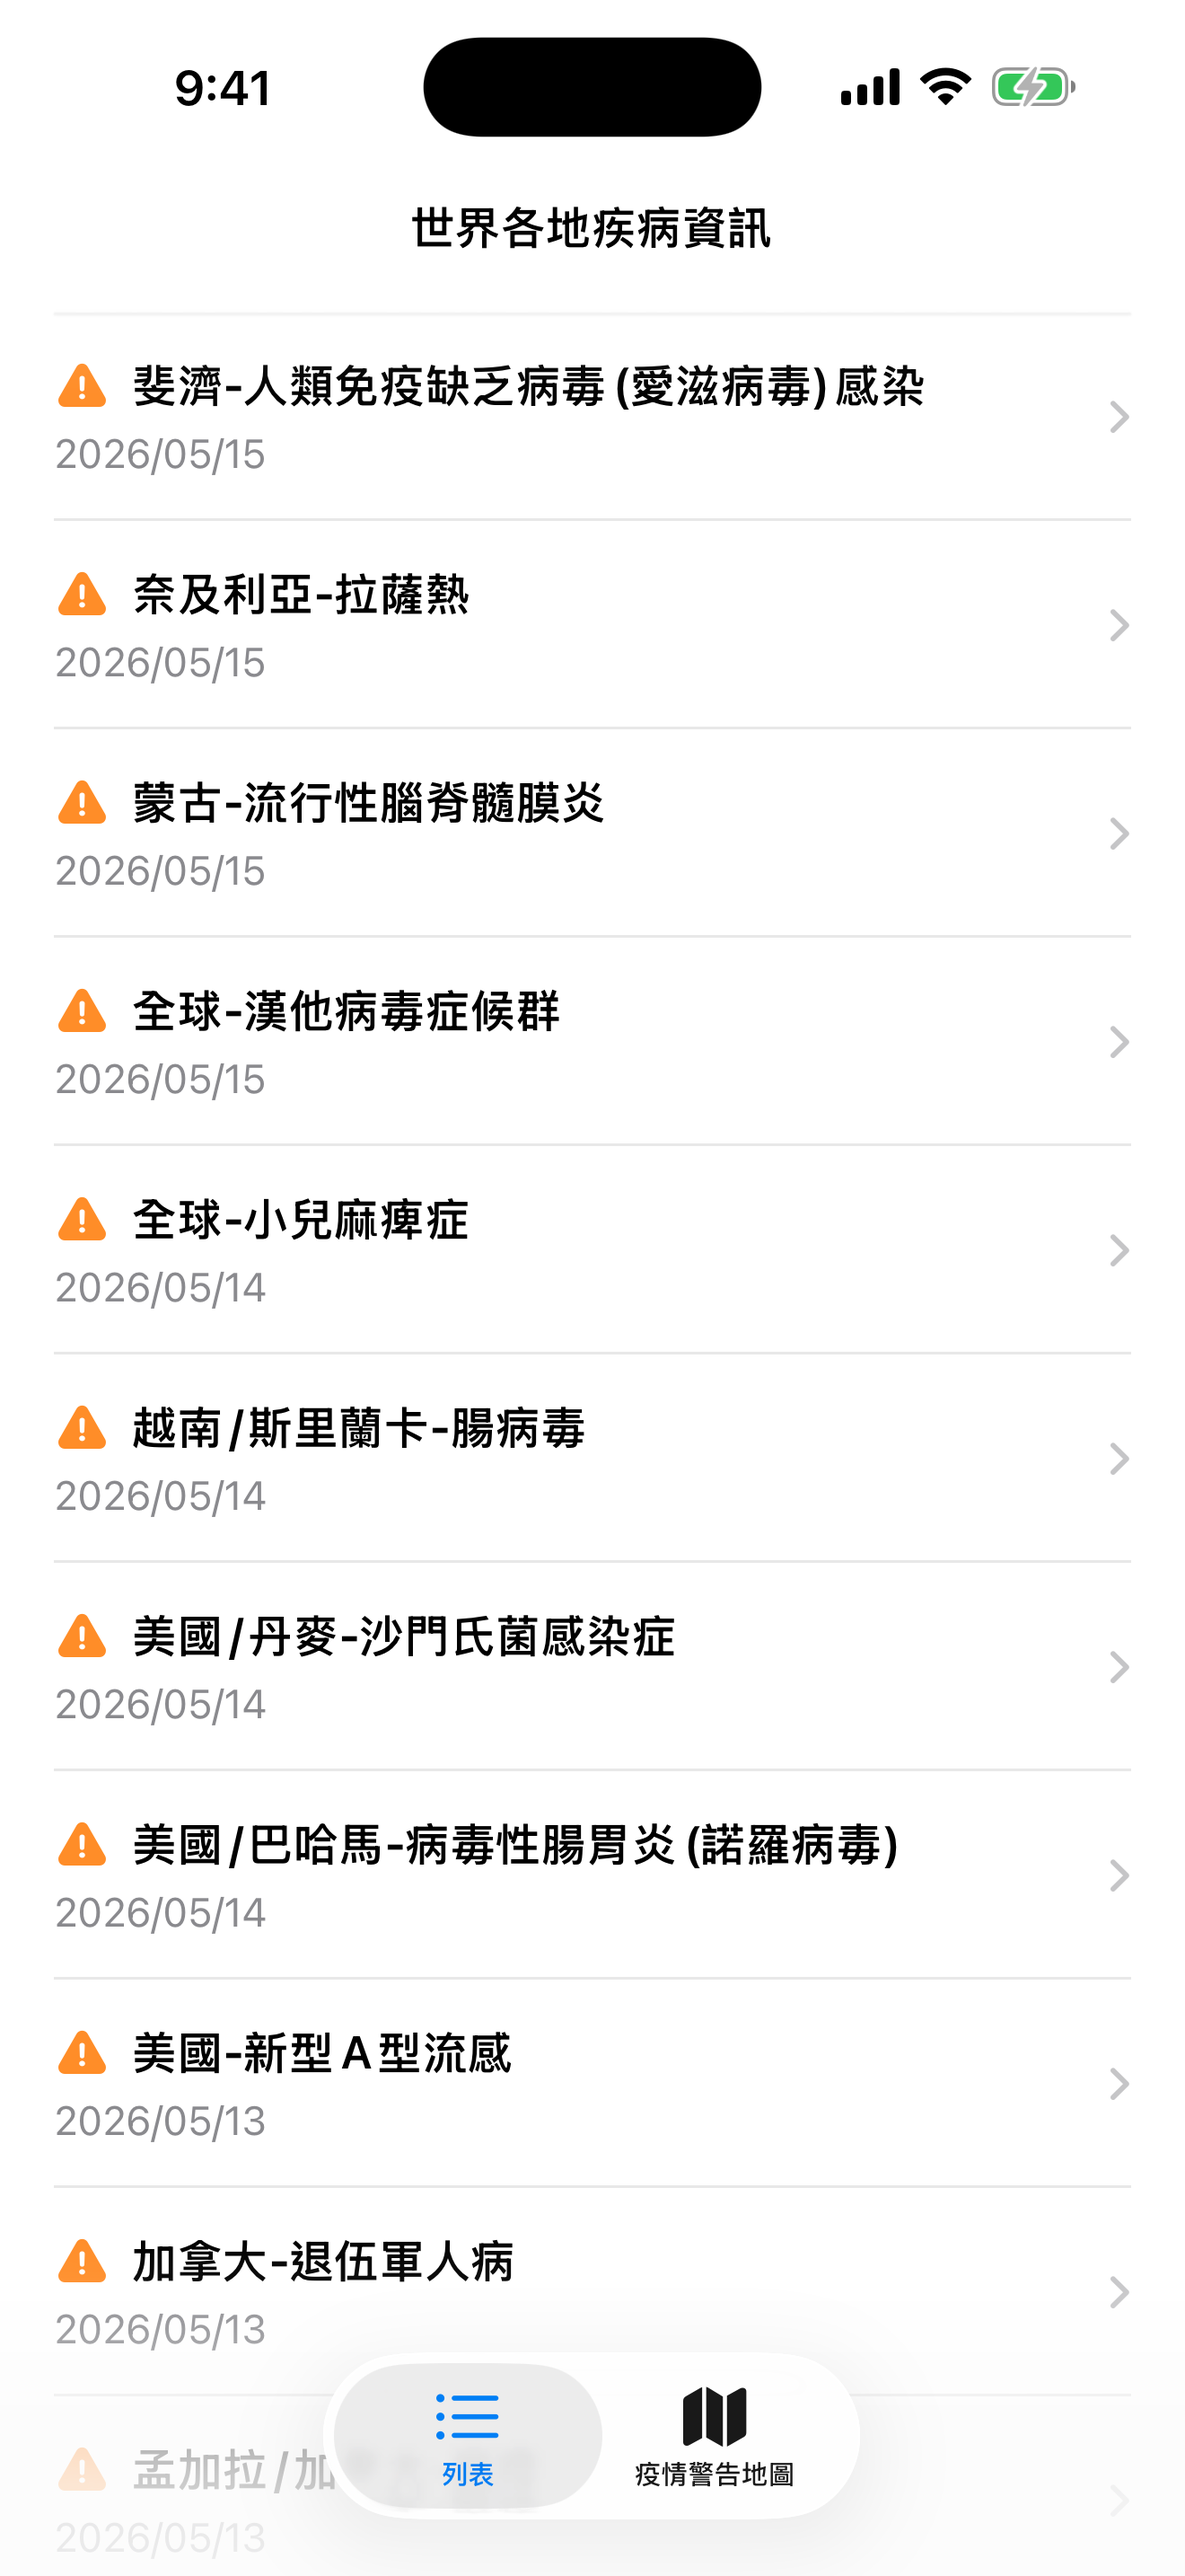
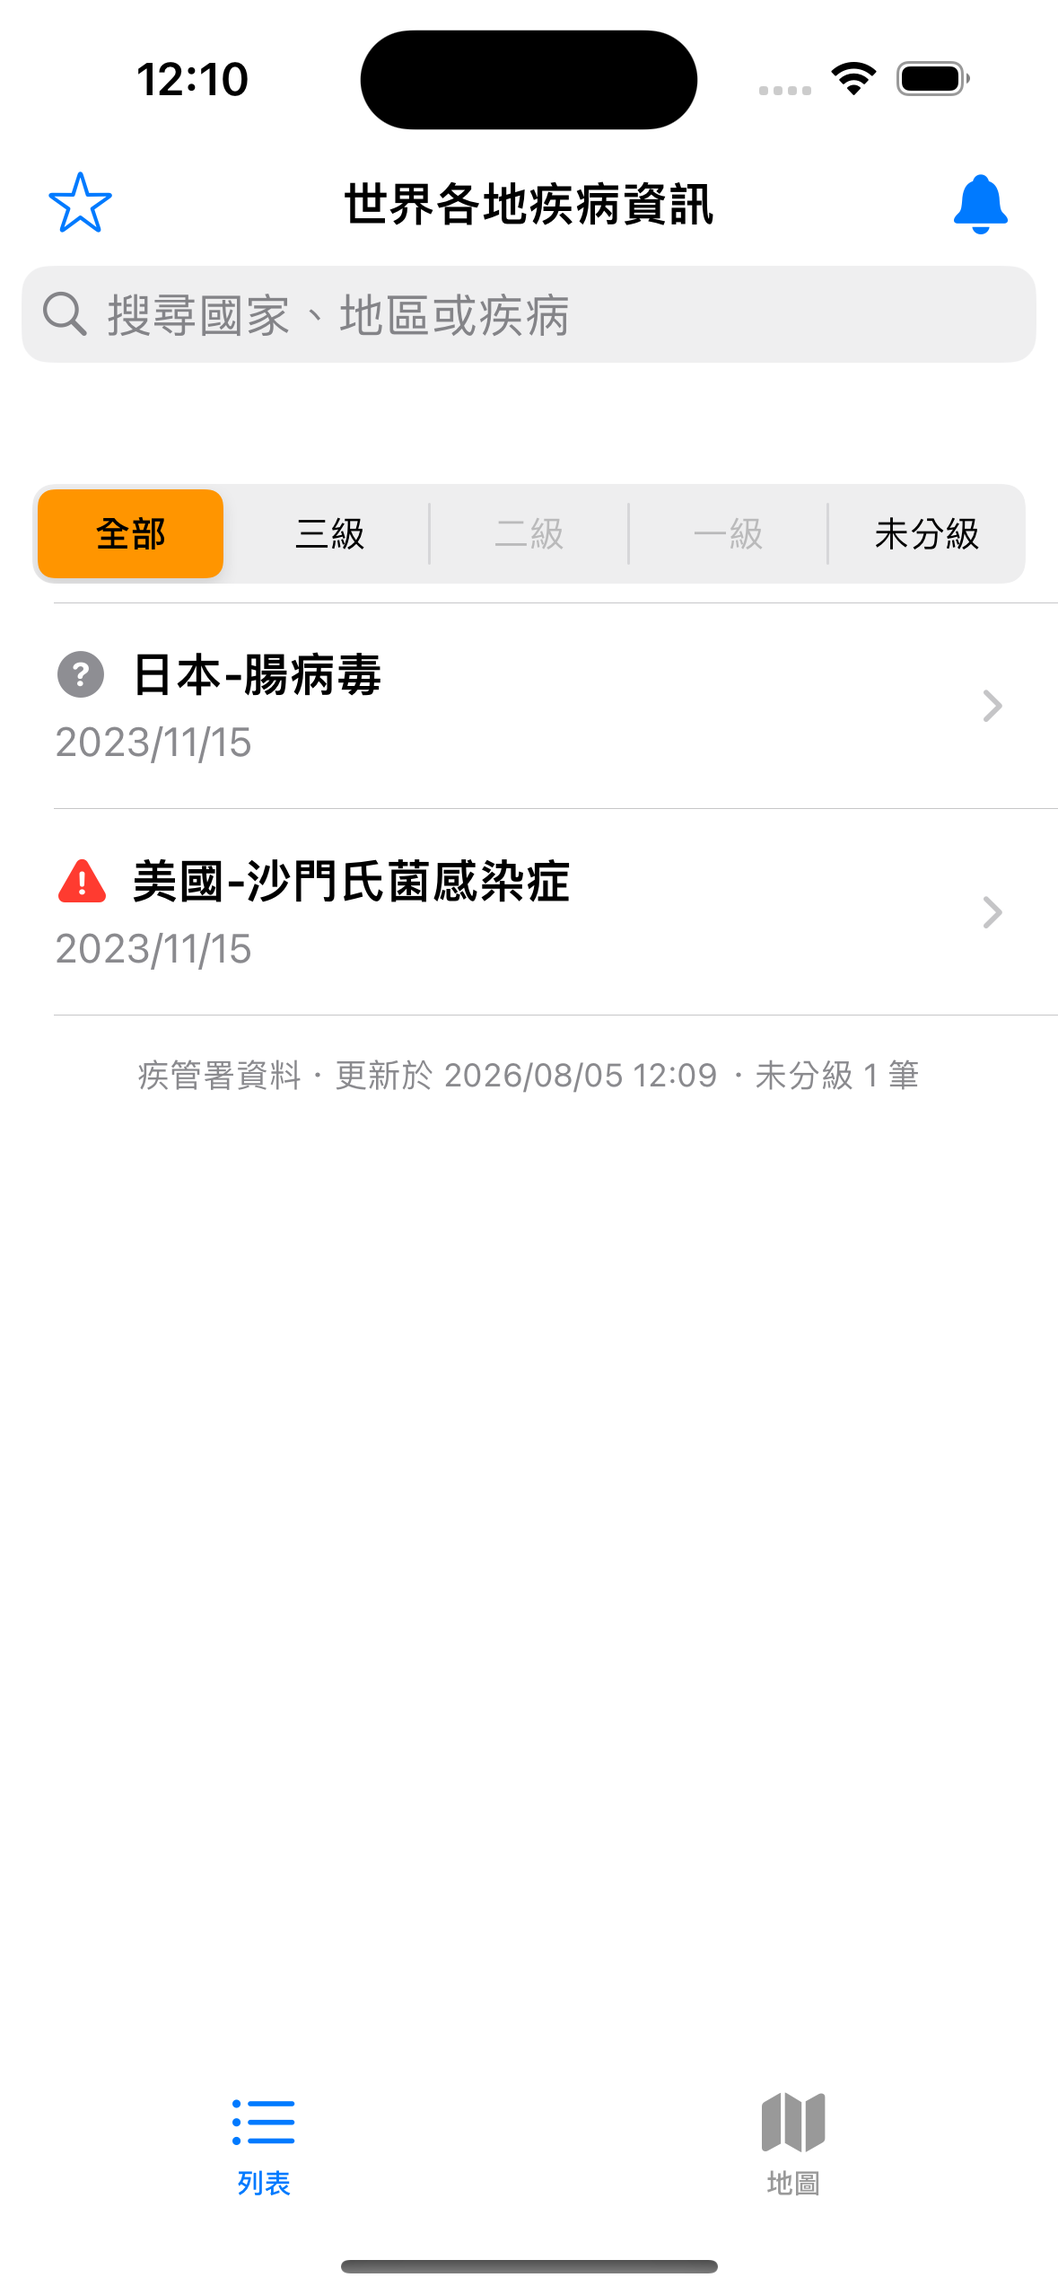
完善核心 UI 流程驗證

diff --git a/CovidAPI/CovidAPI/MapViewController.swift b/CovidAPI/CovidAPI/MapViewController.swift
@@ -129,6 +129,12 @@ class MapViewController: UIViewController {
         let epidemic = epidemics[index]
         let locationName = LocationNameNormalizer.normalize(epidemic.headline)
 
+        if let coordinate = uiTestingCoordinate(for: locationName) {
+            addAnnotation(for: epidemic, coordinate: coordinate)
+            geocodeNext(index: index + 1, generation: generation)
+            return
+        }
+
         if let coordinate = coordinateCache.coordinate(for: locationName) {
             addAnnotation(for: epidemic, coordinate: coordinate)
             geocodeNext(index: index + 1, generation: generation)
@@ -151,6 +157,15 @@ class MapViewController: UIViewController {
         mapView.addAnnotation(EpidemicAnnotation(epidemic: epidemic, coordinate: coordinate))
     }
 
+    private func uiTestingCoordinate(for locationName: String) -> CLLocationCoordinate2D? {
+        guard ProcessInfo.processInfo.arguments.contains("--ui-testing") else { return nil }
+        switch locationName {
+        case "日本": return CLLocationCoordinate2D(latitude: 35.6762, longitude: 139.6503)
+        case "美國": return CLLocationCoordinate2D(latitude: 37.0902, longitude: -95.7129)
+        default: return nil
+        }
+    }
+
     private func makeCalloutDetailView(for ann: EpidemicAnnotation) -> UIView {
         let stack = UIStackView()
         stack.axis = .vertical
@@ -159,6 +174,7 @@ class MapViewController: UIViewController {
         stack.translatesAutoresizingMaskIntoConstraints = false
 
         let levelLabel = UILabel()
+        levelLabel.accessibilityIdentifier = "epidemic.map.callout.level"
         levelLabel.text = ann.alertLevel.label
         levelLabel.font = .preferredFont(forTextStyle: .headline)
         levelLabel.textColor = ann.alertLevel.color
@@ -167,12 +183,14 @@ class MapViewController: UIViewController {
         let formatter = DateFormatter()
         formatter.dateFormat = "yyyy/MM/dd"
         let dateLabel = UILabel()
+        dateLabel.accessibilityIdentifier = "epidemic.map.callout.date"
         dateLabel.text = "發布日：\(formatter.string(from: ann.epidemic.effective))"
         dateLabel.font = .preferredFont(forTextStyle: .subheadline)
         dateLabel.textColor = .secondaryLabel
         dateLabel.adjustsFontForContentSizeCategory = true
 
         let descLabel = UILabel()
+        descLabel.accessibilityIdentifier = "epidemic.map.callout.description"
         descLabel.text = String(ann.epidemic.description.prefix(120))
         descLabel.font = .preferredFont(forTextStyle: .footnote)
         descLabel.textColor = .label
@@ -220,8 +238,11 @@ extension MapViewController: MKMapViewDelegate {
         view.detailCalloutAccessoryView = makeCalloutDetailView(for: epAnn)
         view.rightCalloutAccessoryView = UIButton(type: .detailDisclosure)
         view.accessibilityLabel = "\(epAnn.epidemic.headline)，\(epAnn.alertLevel.label)"
+        let locationName = LocationNameNormalizer.normalize(epAnn.epidemic.headline)
+        view.accessibilityIdentifier = "epidemic.map.marker.\(locationName)"
         view.accessibilityHint = "點兩下顯示摘要與詳細資訊按鈕"
         view.rightCalloutAccessoryView?.accessibilityLabel = "查看完整疫情資訊"
+        view.rightCalloutAccessoryView?.accessibilityIdentifier = "epidemic.map.callout.detail"
         return view
     }
 

diff --git a/CovidAPI/CovidAPIUITests/CovidAPIUITests.swift b/CovidAPI/CovidAPIUITests/CovidAPIUITests.swift
@@ -42,6 +42,32 @@ final class CovidAPIUITests: XCTestCase {
         XCTAssertTrue(map.waitForExistence(timeout: 5))
     }
 
+    func testOpensMapMarkerCalloutAndDetail() {
+        app.tabBars.buttons["地圖"].tap()
+
+        let marker = app.descendants(matching: .any)["epidemic.map.marker.日本"]
+        XCTAssertTrue(marker.waitForExistence(timeout: 5))
+        marker.tap()
+
+        XCTAssertTrue(app.staticTexts["epidemic.map.callout.level"].waitForExistence(timeout: 2))
+        XCTAssertTrue(app.staticTexts["epidemic.map.callout.date"].exists)
+        XCTAssertTrue(app.staticTexts["epidemic.map.callout.description"].exists)
+
+        app.buttons["epidemic.map.callout.detail"].tap()
+        XCTAssertTrue(app.tables["epidemic.detail"].waitForExistence(timeout: 2))
+    }
+
+    func testShowsCachedDataWhenOffline() {
+        app.terminate()
+        app.launchArguments = ["--ui-testing", "--ui-testing-offline"]
+        app.launch()
+
+        XCTAssertTrue(app.cells["epidemic.cell.0"].waitForExistence(timeout: 5))
+        let footer = app.staticTexts["epidemic.updatedAt"]
+        XCTAssertTrue(footer.waitForExistence(timeout: 2))
+        XCTAssertTrue(footer.label.contains("離線資料"))
+    }
+
     func testFavoritesLocationFromDetail() {
         let firstCell = app.cells["epidemic.cell.0"]
         XCTAssertTrue(firstCell.waitForExistence(timeout: 5))
@@ -59,5 +85,34 @@ final class CovidAPIUITests: XCTestCase {
         XCTAssertTrue(
             app.buttons["epidemic.notifications.toggle"].waitForExistence(timeout: 5)
         )
+    }
+
+    func testEnablesNotificationsAfterSystemPermissionIsGranted() {
+        addUIInterruptionMonitor(withDescription: "通知權限") { alert in
+            let allowButton = alert.buttons["Allow"]
+            if allowButton.exists {
+                allowButton.tap()
+            } else if alert.buttons["允許"].exists {
+                alert.buttons["允許"].tap()
+            } else if alert.buttons.count > 0 {
+                alert.buttons.element(boundBy: alert.buttons.count - 1).tap()
+            } else {
+                return false
+            }
+            return true
+        }
+
+        let toggle = app.buttons["epidemic.notifications.toggle"]
+        XCTAssertTrue(toggle.waitForExistence(timeout: 5))
+        if toggle.label == "關閉收藏地區新疫情通知" {
+            toggle.tap()
+        }
+        toggle.tap()
+        app.tap()
+
+        let enabledToggle = app.buttons.matching(
+            NSPredicate(format: "identifier == %@ AND label == %@", "epidemic.notifications.toggle", "關閉收藏地區新疫情通知")
+        ).firstMatch
+        XCTAssertTrue(enabledToggle.waitForExistence(timeout: 5))
     }
 }

diff --git a/CovidAPI/CovidAPI/EpidemicRepository.swift b/CovidAPI/CovidAPI/EpidemicRepository.swift
@@ -118,6 +118,12 @@ final class EpidemicRepository {
         guard ProcessInfo.processInfo.arguments.contains("--ui-testing") else {
             return EpidemicRepository()
         }
+        if ProcessInfo.processInfo.arguments.contains("--ui-testing-offline") {
+            return EpidemicRepository(
+                apiClient: UITestingOfflineAPIClient(),
+                cache: UITestingCache(epidemics: UITestingFixture.epidemics)
+            )
+        }
         return EpidemicRepository(apiClient: UITestingAPIClient(), cache: UITestingCache())
     }()
 
@@ -196,16 +202,34 @@ final class EpidemicRepository {
 
 private final class UITestingAPIClient: EpidemicAPIClientProtocol {
     func fetch(completion: @escaping (Result<[Epidemic], Error>) -> Void) {
-        let date = Date(timeIntervalSince1970: 1_700_000_000)
-        completion(.success([
-            Epidemic(headline: "日本-腸病毒", effective: date, description: "日本疫情測試資料", areaDescription: "日本"),
-            Epidemic(headline: "美國-沙門氏菌感染症", effective: date, description: "美國疫情測試資料", severityLevel: 3, areaDescription: "美國")
-        ]))
+        completion(.success(UITestingFixture.epidemics))
     }
 }
 
 private final class UITestingCache: EpidemicCacheProtocol {
-    var modifiedAt: Date? { nil }
-    func load() -> [Epidemic]? { nil }
+    private let epidemics: [Epidemic]?
+
+    init(epidemics: [Epidemic]? = nil) {
+        self.epidemics = epidemics
+    }
+
+    var modifiedAt: Date? { Date(timeIntervalSince1970: 1_700_000_000) }
+    func load() -> [Epidemic]? { epidemics }
     func save(_ epidemics: [Epidemic]) {}
+}
+
+private final class UITestingOfflineAPIClient: EpidemicAPIClientProtocol {
+    func fetch(completion: @escaping (Result<[Epidemic], Error>) -> Void) {
+        completion(.failure(EpidemicRepositoryError.network(URLError(.notConnectedToInternet))))
+    }
+}
+
+private enum UITestingFixture {
+    static let epidemics: [Epidemic] = {
+        let date = Date(timeIntervalSince1970: 1_700_000_000)
+        return [
+            Epidemic(headline: "日本-腸病毒", effective: date, description: "日本疫情測試資料", areaDescription: "日本"),
+            Epidemic(headline: "美國-沙門氏菌感染症", effective: date, description: "美國疫情測試資料", severityLevel: 3, areaDescription: "美國")
+        ]
+    }()
 }

diff --git a/CovidAPI/CovidAPI/EpidemicTableViewController.swift b/CovidAPI/CovidAPI/EpidemicTableViewController.swift
@@ -55,7 +55,6 @@ class EpidemicTableViewController: UITableViewController {
         filterControl.addTarget(self, action: #selector(filterChanged), for: .valueChanged)
         filterControl.selectedSegmentTintColor = .systemOrange
         filterControl.accessibilityIdentifier = "epidemic.filter"
-        navigationItem.titleView = filterControl
         navigationItem.leftBarButtonItem = UIBarButtonItem(
             image: UIImage(systemName: "star"),
             style: .plain,
@@ -85,11 +84,29 @@ class EpidemicTableViewController: UITableViewController {
         }
         viewModel.load()
     }
-    
+
     
     override func numberOfSections(in tableView: UITableView) -> Int {
         // #warning Incomplete implementation, return the number of sections
         return 1
+    }
+
+    override func tableView(_ tableView: UITableView, heightForHeaderInSection section: Int) -> CGFloat {
+        52
+    }
+
+    override func tableView(_ tableView: UITableView, viewForHeaderInSection section: Int) -> UIView? {
+        let header = UIView()
+        header.backgroundColor = .systemBackground
+        filterControl.translatesAutoresizingMaskIntoConstraints = false
+        header.addSubview(filterControl)
+        NSLayoutConstraint.activate([
+            filterControl.leadingAnchor.constraint(equalTo: header.leadingAnchor, constant: 12),
+            filterControl.trailingAnchor.constraint(equalTo: header.trailingAnchor, constant: -12),
+            filterControl.topAnchor.constraint(equalTo: header.topAnchor, constant: 8),
+            filterControl.bottomAnchor.constraint(equalTo: header.bottomAnchor, constant: -8)
+        ])
+        return header
     }
 
     override func tableView(_ tableView: UITableView, numberOfRowsInSection section: Int) -> Int {

diff --git a/roadmap.md b/roadmap.md
@@ -2,9 +2,9 @@
 
 ## 目前狀態
 
-更新日期：2026-08-04
+更新日期：2026-08-05
 
-資料層重構、離線支援、地圖效能、UI tests、無障礙、未分級說明、地區收藏與 app 內新疫情通知均已完成。目前本機 `main` 比 `origin/main` 領先兩個 commits，尚未推送。
+資料層重構、離線支援、地圖效能、UI tests、無障礙、未分級說明、地區收藏與 app 內新疫情通知均已完成。CI Simulator 建立流程也已修正；本機 `main` 與 `origin/main` 同步。
 
 ## 本次完成
 
@@ -24,6 +24,10 @@
 - 解析疾管署 `severity_level`，新增「未分級」篩選並停用沒有資料的等級，避免將空白誤解為疫情不嚴重。
 - 加入地區收藏：詳細頁可切換收藏，列表可只顯示收藏地區，並以 UserDefaults 持久化。
 - 加入通知 opt-in；app 更新資料時比對已看過項目，僅通知收藏地區的新疫情，首次啟用只建立基準。
+- 修正 GitHub Actions 在 runner 沒有預建 Simulator 時找不到 `iPhone 16` 的問題：workflow 會選擇最新可用的 iOS runtime、建立並啟動專用 Simulator，再以 UUID 執行測試。
+- 新增地圖 marker／callout／詳細頁導覽與離線快取顯示 UI tests，並以固定座標 fixture 避免 CI 依賴 geocoding 網路。
+- 將首頁疫情等級篩選器移到列表的固定 section header，避免 navigation bar 空間不足導致「未分級」截斷。
+- 新增通知系統權限 UI test，驗證首次授權後 app 會切換為通知已啟用狀態。
 
 ## 驗證結果
 
@@ -41,24 +45,26 @@
   - 收藏地區跨不同疫情持久化。
   - ViewModel 收藏地區篩選。
   - 通知追蹤只回傳收藏地區且尚未看過的新疫情。
-- 5 項 UI tests 全部通過，0 failures：
+- 8 項 UI tests 全部通過，0 failures：
   - 搜尋與警示等級篩選。
   - 列表進入詳細頁。
   - 切換至地圖頁。
   - 從詳細頁收藏地區並於列表篩選。
   - 通知 opt-in 控制顯示正常。
+  - 通知系統授權提示可允許，授權後 app 狀態正確更新。
+  - 地圖 marker 可開啟 callout，callout 內容與詳細頁導覽正常。
+  - 網路失敗時仍會顯示快取資料與「離線資料」來源標示。
 - Smoke test 確認 app 可安裝、啟動並載入 CDC 資料；列表、搜尋列、篩選器與 tab bar 顯示正常，未發生 crash。
 - `project.pbxproj`、`Info.plist` 與 `git diff --check` 驗證通過。
 - 本機簽章可從 ignored 的 `Signing.local.xcconfig` 解析，commit 中沒有個人 Team ID。
+- CI 修正 commit `08b1623` 已推送；GitHub Actions run `30894732585` 的 Simulator 建立、build 與 test 均成功。
 
 ## 已知限制
 
-- UI tests 已覆蓋搜尋、篩選、收藏、詳細頁與地圖 tab；地圖 marker／callout、通知權限提示與離線操作仍需人工確認。
+- UI tests 已覆蓋搜尋、篩選、收藏、通知系統授權、詳細頁、地圖 marker／callout 與離線快取。
 - Simulator 日誌出現 MapKit 定位與系統快取警告，但沒有 app crash 或程式層錯誤。
-- 本機沒有 iPhone 16 Simulator，因此本次使用 iPhone 15／iOS 17.5；CI 仍使用 README 與 workflow 指定的 iPhone 16。
+- 本機沒有 iPhone 16 Simulator，因此本機驗證使用 iPhone 15／iOS 17.5；CI 會自行建立 iPhone 16 Simulator，不再依賴 runner 預建裝置。
 
 ## 下一步
 
-1. 推送 `main`，確認 GitHub Actions 通過。
-2. 人工確認地圖 marker／callout、通知權限提示與離線模式。
-3. 若需要完全即時通知，設計後端定期抓取 CDC 資料與 APNs 推播服務。
+1. 若需要完全即時通知，設計後端定期抓取 CDC 資料與 APNs 推播服務。

diff --git a/README.md b/README.md
@@ -90,7 +90,7 @@ xcodebuild test \
   -destination 'platform=iOS Simulator,name=iPhone 16'
 ```
 
-目前有 12 項單元測試，涵蓋疫情等級判定、疾管署等級解碼、API 成功快取、離線 fallback、ViewModel 搜尋／篩選、收藏持久化、新疫情通知比對、地名正規化與座標快取；另有 5 項 UI tests，涵蓋搜尋與等級／未分級篩選、收藏流程、通知 opt-in 控制、詳細頁導覽及地圖 tab 切換。
+目前有 12 項單元測試，涵蓋疫情等級判定、疾管署等級解碼、API 成功快取、離線 fallback、ViewModel 搜尋／篩選、收藏持久化、新疫情通知比對、地名正規化與座標快取；另有 8 項 UI tests，涵蓋搜尋與等級／未分級篩選、收藏流程、通知系統權限與 opt-in 狀態、詳細頁導覽、地圖 marker／callout 導覽及離線快取顯示。
 
 ## Roadmap
 
